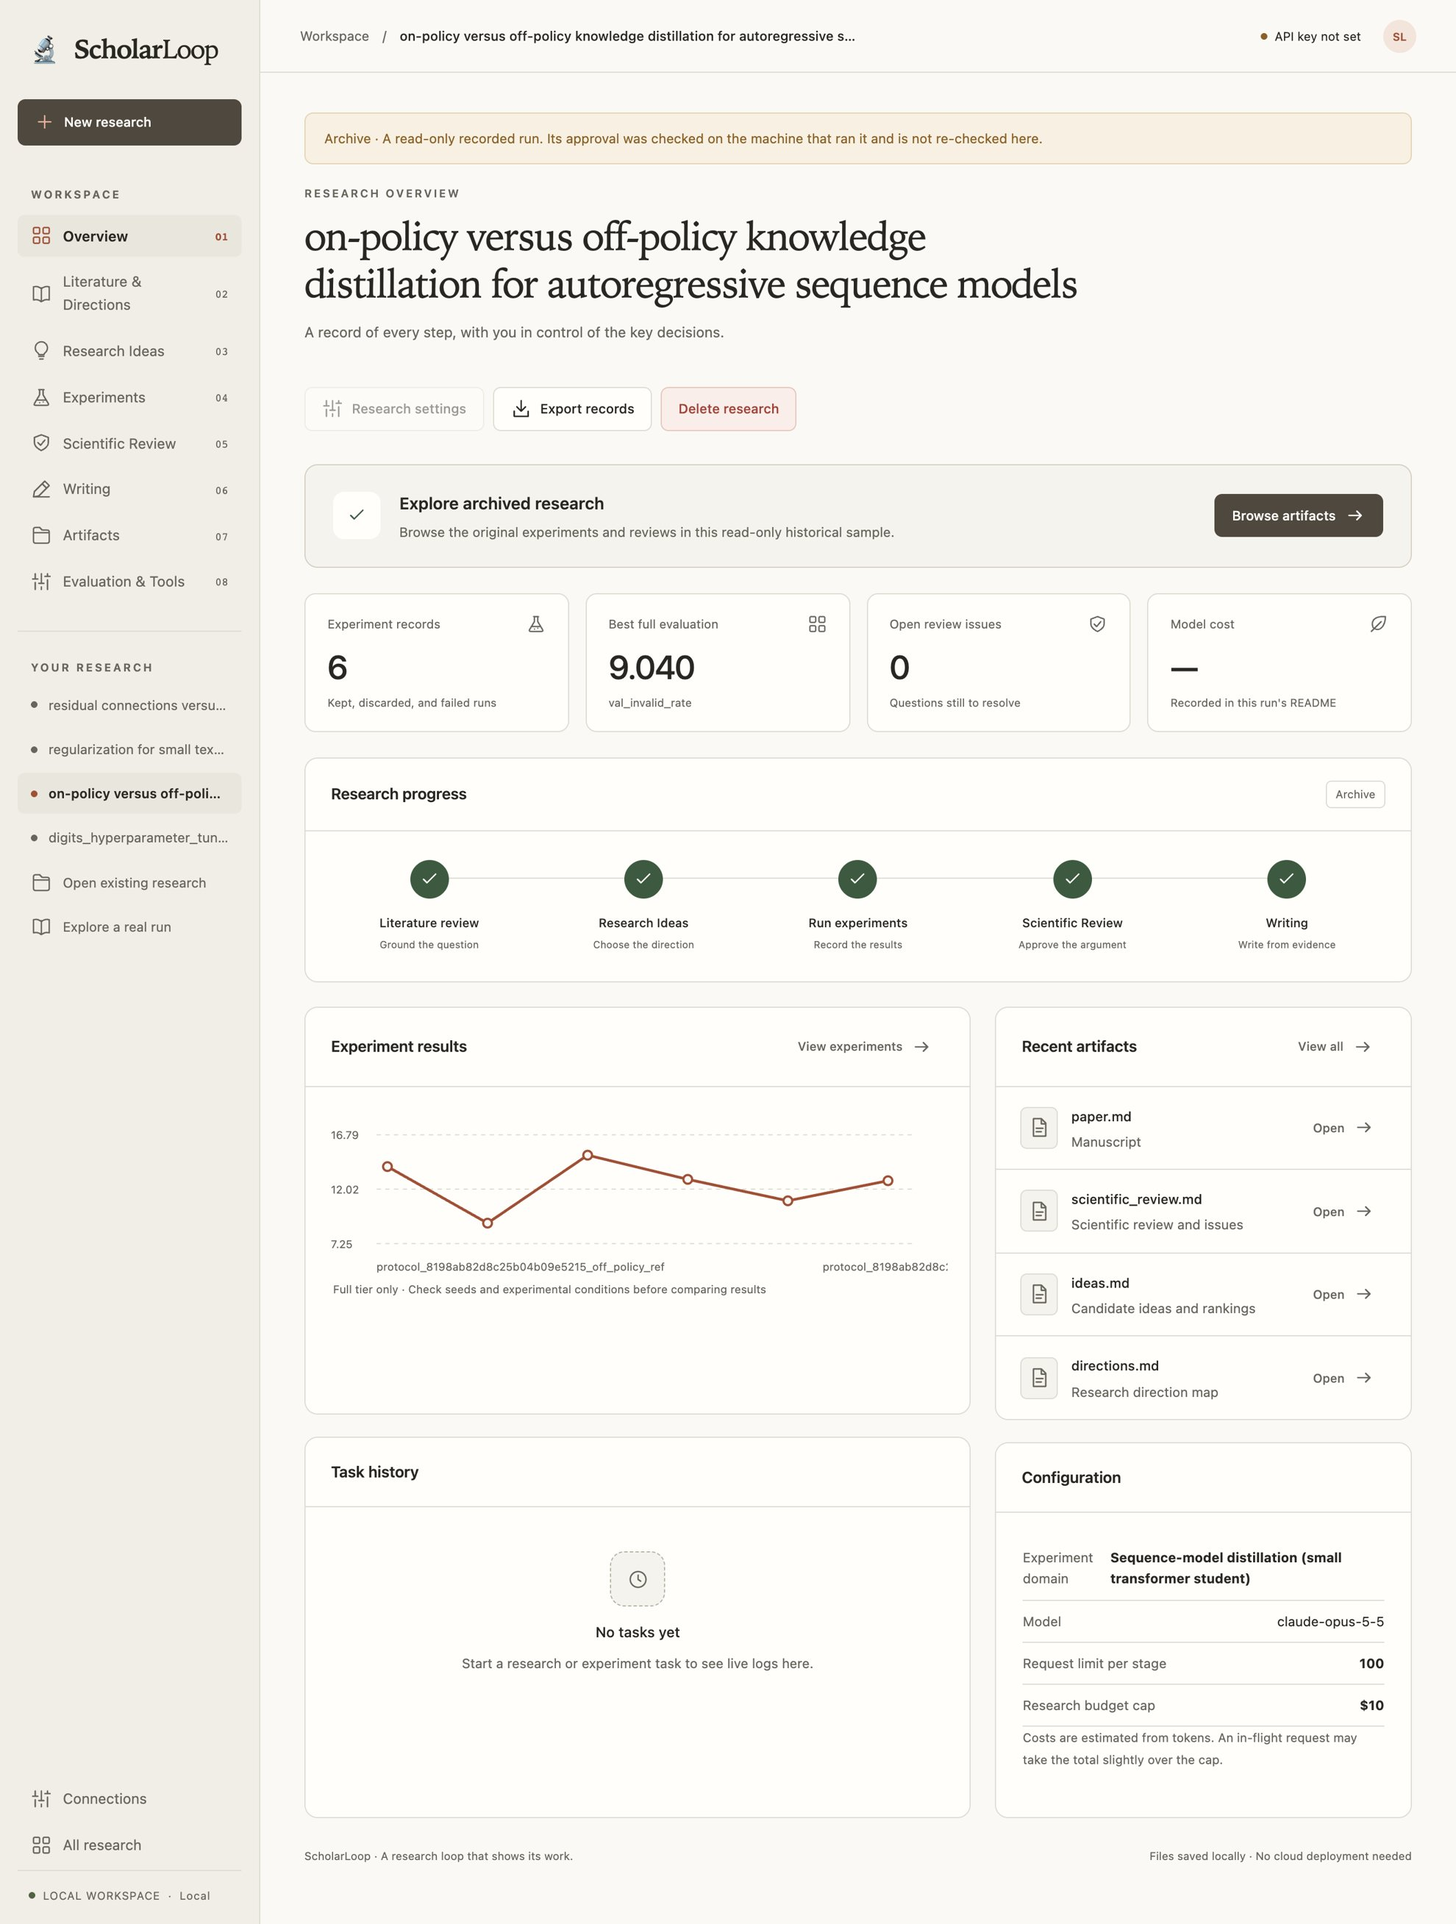
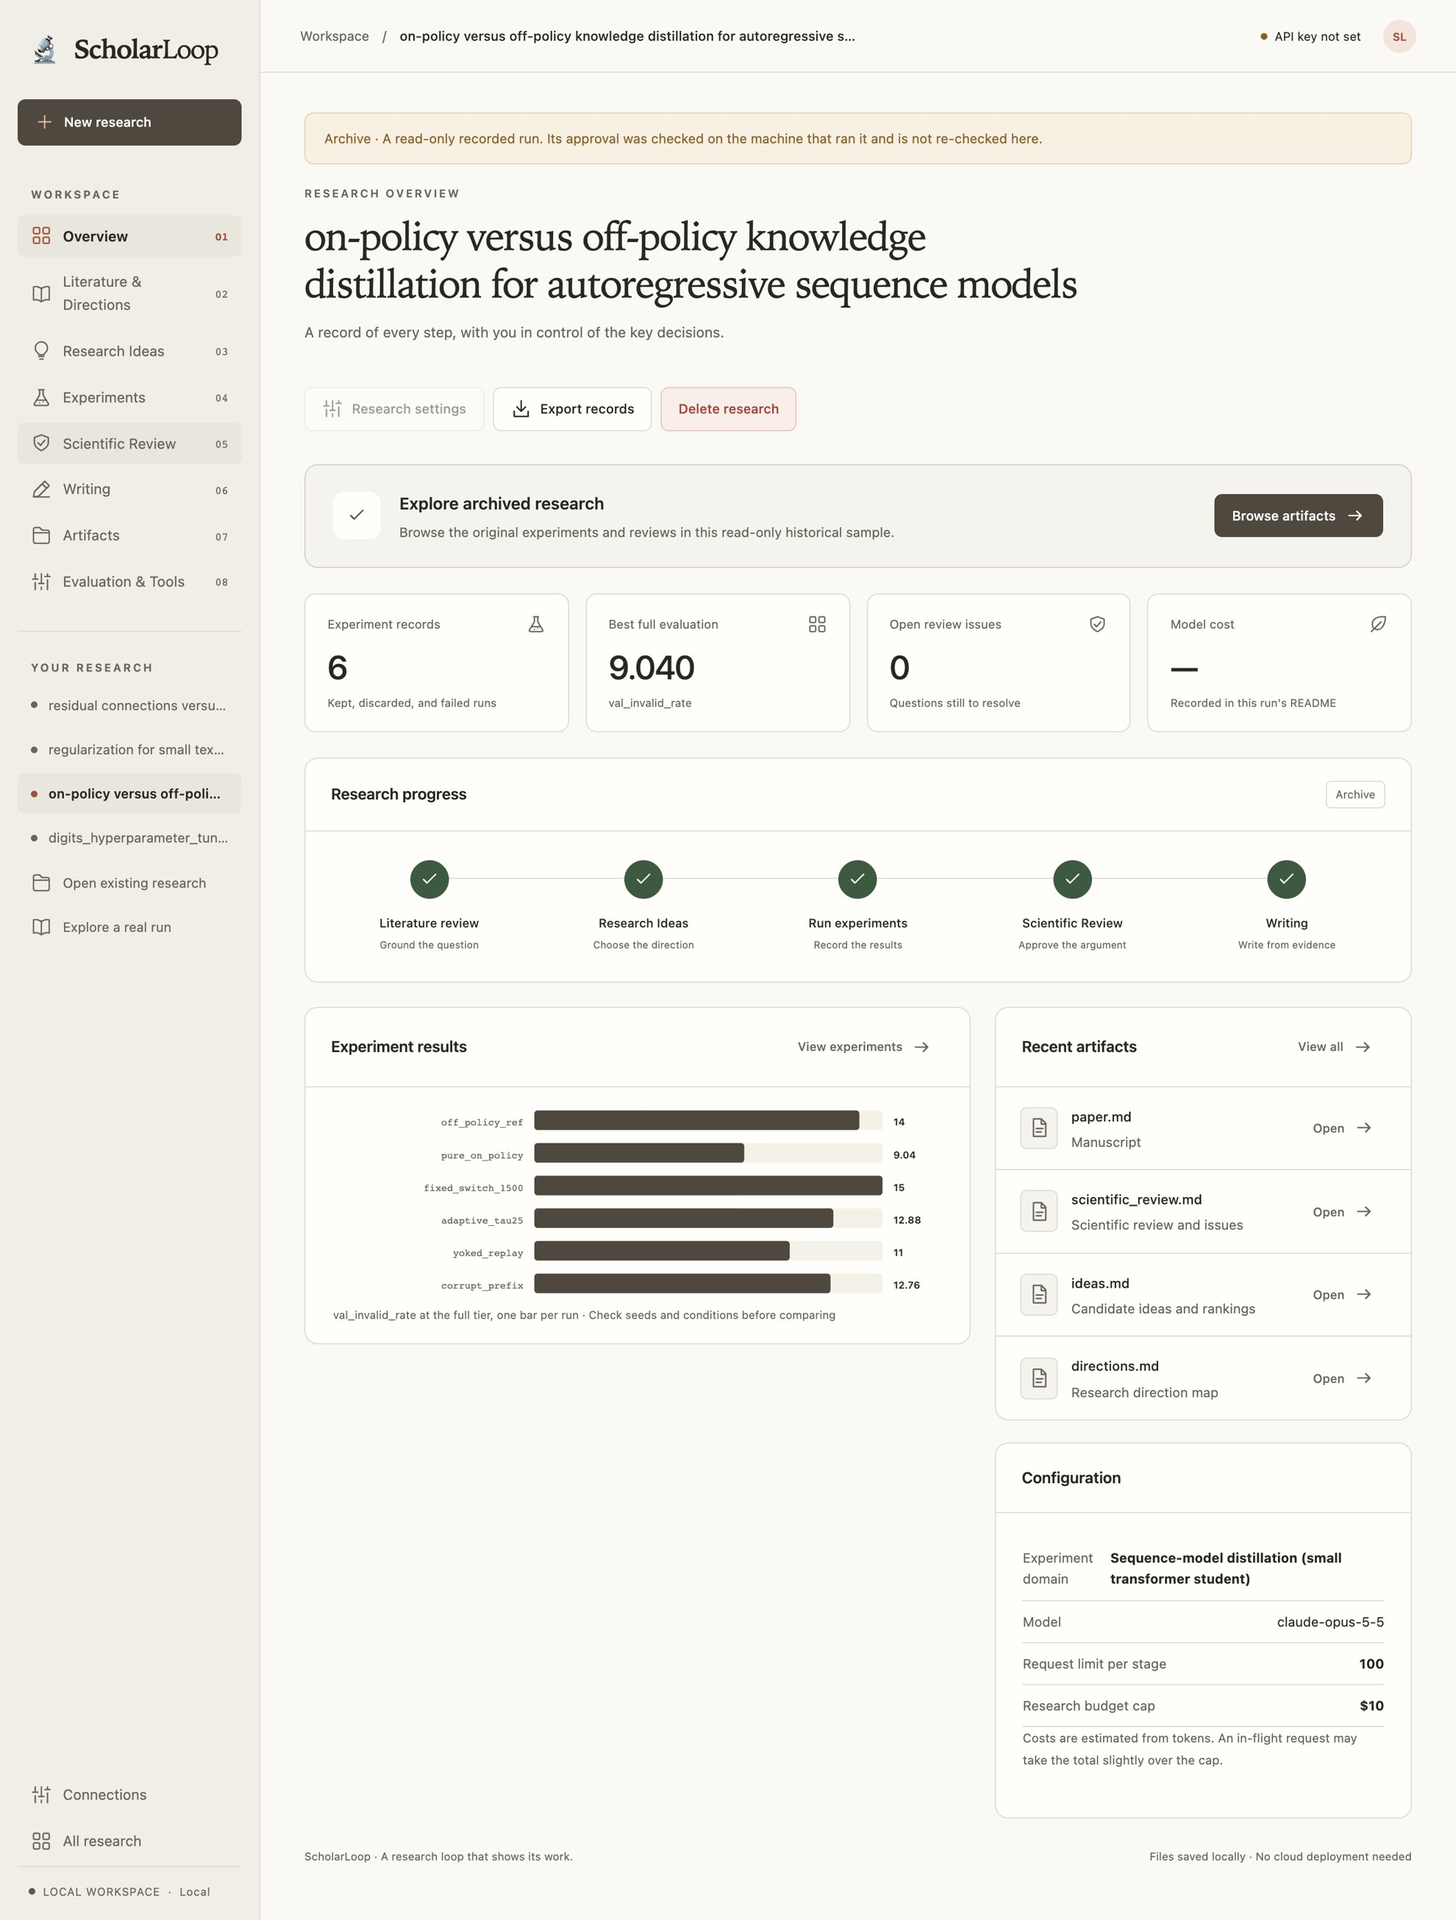
Give directions the idea-card layout, show results as one bar per run, drop empty task history from archives; add a web UI section with new screenshots to the README

diff --git a/scholarloop/ui/static/app.js b/scholarloop/ui/static/app.js
@@ -87,6 +87,15 @@ function sourceChip(id) {
   const url=sourceLink(id);
   return url?`<a class="source-chip" href="${esc(url)}" target="_blank" rel="noopener noreferrer" title="Open ${esc(id)} in a new tab">${esc(id)} ${icon("arrow")}</a>`:`<span>${esc(id)}</span>`;
 }
+// One direction, in the same shape as an idea: its open question is the point of the card.
+function directionCard(d, i) {
+  const chosen=state.detail.session.chosen_directions?.includes(d.id), n=String(i+1).padStart(2,"0");
+  const stance={develops:"Develops your hypothesis",challenges:"Challenges your hypothesis",outside:"A new perspective",author:"Your own direction"}[d.stance]||d.stance||d.origin||"";
+  return `<article class="panel idea-card${chosen?" chosen":""}"><header class="idea-head"><div class="idea-rank">${n}</div><div class="grow"><div class="idea-kicker">${esc([`Direction ${n}`,stance].filter(Boolean).join(" · "))}</div><h3>${esc(d.name)}</h3></div><div class="idea-tags">${chosen?tag("Chosen","green"):""}</div></header>`+
+    `<section class="idea-hypothesis"><div class="idea-label">Open question</div><p>${esc(d.open_question??"")}</p></section>`+
+    `<details class="idea-fold" open><summary>Thesis</summary>${points(d.thesis)}</details>`+(d.first_experiment?`<details class="idea-fold"><summary>First experiment</summary>${points(d.first_experiment)}</details>`:"")+
+    `<footer class="idea-foot"><div class="idea-sources"></div>${button("ideas","Generate ideas in this direction","",{directions:String(i+1)})}</footer></article>`;
+}
 // One idea: the hypothesis leads, scores and tournament standing sit beside the title, and the
 // longer parts fold away. The chosen idea is marked and starts unfolded.
 function ideaCard(idea, i) {
@@ -179,13 +188,16 @@ function stats() {
     ["Model cost",d.config.readonly?"—":`$${Number(d.spend.usd||0).toFixed(2)}`,d.config.readonly?"Recorded in this run's README":d.config.mode==="demo"?"No API calls · offline demo":`UI estimate · cap $${d.config.spend_cap}`,"leaf"]];
   return `<div class="stats">${values.map(([label,value,note,ico])=>`<div class="stat"><div class="stat-label">${label}${icon(ico)}</div><div class="stat-value">${esc(value)}</div><div class="stat-note">${esc(note)}</div></div>`).join("")}</div>`;
 }
+// An arm's own name, without the protocol prefix every arm of a study shares.
+const shortId=id=>String(id??"").replace(/^protocol_[0-9a-f]{8,}_/,"");
+// One bar per fully evaluated run, from zero: the runs are separate arms, not a series over time.
 function chart() {
   const entries=state.detail.entries.filter(e=>e.score!==null&&e.score!==undefined&&e.fidelity?.includes("full"));
   if(!entries.length)return empty("Awaiting full evaluation results","After the full stage completes, compare results at the same evaluation tier here.","","","flask");
-  const vals=entries.map(e=>Number(e.score)), min=Math.min(...vals), max=Math.max(...vals), pad=Math.max((max-min)*.3,.05);
-  const y=v=>125-((v-min+pad)/(max-min+2*pad))*100;
-  const x=i=>55+(entries.length===1?210:i/(entries.length-1)*460);
-  return `<div class="chart"><svg viewBox="0 0 570 155" role="img" aria-label="Full evaluation result trend">${[max+pad,(max+min)/2,min-pad].map(v=>`<line class="chart-grid" x1="45" x2="540" y1="${y(v)}" y2="${y(v)}"/><text class="chart-label" x="3" y="${y(v)+4}">${v.toFixed(2)}</text>`).join("")}<path class="chart-line" d="${vals.map((v,i)=>(i?"L":"M")+x(i)+","+y(v)).join(" ")}"/>${vals.map((v,i)=>`<circle class="chart-dot" cx="${x(i)}" cy="${y(v)}" r="4"><title>${esc(entries[i].id)}: ${v}</title></circle>`).join("")}<text class="chart-label" x="45" y="150">${esc(entries[0].id)}</text><text class="chart-label" x="455" y="150">${esc(entries.at(-1).id)}</text></svg></div><p class="chart-caption">Full tier only · Check seeds and experimental conditions before comparing results</p>`;
+  const vals=entries.map(e=>Number(e.score)), top=Math.max(...vals,0)||1, row=30, left=190, span=320;
+  const clip=text=>text.length>28?text.slice(0,27)+"…":text;
+  return `<div class="chart"><svg viewBox="0 0 570 ${entries.length*row+6}" role="img" aria-label="Full evaluation result of each run">${entries.map((e,i)=>{const w=Math.max(2,Math.max(0,vals[i])/top*span), y=i*row+6;
+    return `<g><title>${esc(e.id)}: ${vals[i]}</title><text class="chart-label chart-name" x="${left-10}" y="${y+14}" text-anchor="end">${esc(clip(shortId(e.id)))}</text><rect class="chart-track" x="${left}" y="${y}" width="${span}" height="18" rx="3"/><rect class="chart-bar" x="${left}" y="${y}" width="${w.toFixed(1)}" height="18" rx="3"/><text class="chart-label chart-value" x="${left+span+10}" y="${y+14}">${esc(vals[i])}</text></g>`;}).join("")}</svg></div><p class="chart-caption">${esc(profile()?.metric||"Score")} at the full tier, one bar per run · Check seeds and conditions before comparing</p>`;
 }
 function recentArtifacts() {
   const preferred=["paper.md","scientific_review.md","ideas.md","directions.md","lit_review.md","demo.md","experiments.jsonl"];
@@ -194,6 +206,8 @@ function recentArtifacts() {
 }
 function jobPanel() {
   const jobs=state.detail.jobs, selected=jobs.find(j=>j.id===state.job);
+  // A recorded run that never ran anything here has no task history to show.
+  if(state.detail.config.readonly&&!jobs.length)return "";
   const activity=state.detail.activity||[];
   const events=activity.length?`<details class="agent-activity"><summary>Recent model activity · ${activity.length} events</summary>${activity.map(a=>`<div class="list-row"><div class="grow"><strong>${esc(a.agent)}</strong><small>Attempt ${esc(a.attempt)} · ${timeText(a.timestamp)}</small></div>${tag(a.event==="started"?"Started":({accepted:"Validated",rejected:"Validation failed",invalid_json:"Invalid output format",exception:"Request error"}[a.status]||a.status),a.status==="accepted"?"green":a.event==="started"?"blue":"amber")}</div>`).join("")}</details>`:"";
   return panel("Task history",(jobs.length?`<div>${jobs.slice(0,6).map(j=>`<button class="list-row task-row ${j.id===state.job?"selected":""}" data-job="${j.id}">${icon(j.status==="running"?"clock":"file")}<div class="grow"><strong>${esc(j.label)}</strong><small>${timeText(j.started)}</small></div>${tag(statusLabels[j.status],statusColors[j.status])}</button>`).join("")}</div>${selected?`<div class="task-summary row space-between"><span>${esc(selected.label)} · ${statusLabels[selected.status]}</span>${selected.status==="running"?`<button class="btn small danger" data-cancel="${selected.id}">${icon("stop")} Stop task</button>`:""}</div><pre class="log" id="job-log">${esc(state.log)||"Waiting for task output…"}</pre>`:""}`:empty("No tasks yet","Start a research or experiment task to see live logs here.","","","clock"))+events);
@@ -209,7 +223,7 @@ function research() {
     (s.steer?.interest?panel("Your research intent",`<div class="panel-body"><p>${esc(s.steer.interest)}</p>${s.steer.hunches?.length?`<div class="tags">${s.steer.hunches.map(h=>tag(h)).join("")}</div>`:""}</div>`)+`<div class="spacer"></div>`:"")+
     panel("Literature review",fileExists("lit_review.md")?`<div class="list-row"><div class="file-icon">${icon("book")}</div><div class="grow"><strong>Literature review and research gaps</strong><small>Themes, paper notes, open questions, and sources</small></div>${artifactButton("lit_review.md","Read review")}</div>`:empty("Start with your question","Share your interests and hypotheses to focus the literature search on questions that matter to you."))+
     `<div class="spacer"></div><div class="section-title"><h2>Research directions ${dirs.length?tag(dirs.length+" directions"):""}</h2>${dirs.length?button("ideas","Choose directions and generate ideas","soft"):""}</div>`+
-    (dirs.length?`<div class="cards">${dirs.map((d,i)=>`<article class="panel direction-card"><div class="row space-between"><span class="card-number">DIRECTION 0${i+1}</span>${tag({develops:"Develops hypothesis",challenges:"Challenges hypothesis",outside:"New perspective",author:"Your direction"}[d.stance]||d.stance||d.origin,s.chosen_directions?.includes(d.id)?"green":"")}</div><h3>${esc(d.name)}</h3><p>${esc(d.thesis)}</p><p><strong>Open question</strong><br>${esc(d.open_question)}</p><div class="card-meta">First experiment: ${esc(d.first_experiment)}</div>${button("ideas","Generate ideas in this direction","",{directions:String(i+1)})}</article>`).join("")}</div>`:panel("Direction map",(state.detail.config.readonly?recorded("directions.md","The direction map is kept as a document","Read directions"):empty("Turn the literature into directions","The direction map identifies testable questions, low-cost first experiments, and likely failure modes."))))+
+    (dirs.length?`<div class="cards idea-list">${dirs.map(directionCard).join("")}</div>`:panel("Direction map",(state.detail.config.readonly?recorded("directions.md","The direction map is kept as a document","Read directions"):empty("Turn the literature into directions","The direction map identifies testable questions, low-cost first experiments, and likely failure modes."))))+
     `<div class="spacer"></div>${jobPanel()}`;
 }
 function ideas() {
@@ -223,8 +237,8 @@ function experiments() {
   const d=state.detail;
   return heading("Put ideas to the test","From small-scale screening to full evaluation, every run is recorded.","03 / EXPERIMENTS")+
     `<div class="action-row">${button(d.config.mode==="demo"?"demo":"campaign",busy()?"Experiments running":d.config.mode==="demo"?"Run offline demo":"Start / resume experiments","primary")}${button("iterate","Assess next research steps")}${button("review","Submit for scientific review")}</div>`+
-    stats()+panel("Full evaluation trend",chart())+`<div class="spacer"></div>`+
-    panel("Experiment records",d.entries.length?`<div class="table-wrap"><table><thead><tr><th>Experiment ID</th><th>Stage</th><th>Role / purpose</th><th>${esc(profile()?.metric||"Metric")}</th><th>Result</th><th>Hypothesis</th></tr></thead><tbody>${d.entries.slice().reverse().map(e=>`<tr><td class="mono">${esc(e.id)}</td><td>${tag(e.fidelity?.join(" / ")||"—","outline")}</td><td>${esc(e.role||e.purpose||"exploration")}</td><td class="score">${e.score===null||e.score===undefined?"—":esc(e.score)}</td><td>${tag({kept:"Kept",discarded:"Discarded",killed:"Failed",pending:"Pending"}[e.verdict]||e.verdict,e.verdict==="kept"?"green":e.verdict==="killed"?"red":"")}</td><td class="long" title="${esc(e.hypothesis?.claim)}">${esc(e.hypothesis?.claim)}</td></tr>`).join("")}</tbody></table></div>`:empty("No experiments yet","Select a research idea, then set the rounds, parallel workers, and cumulative training budget."),fileExists("experiments.jsonl")?artifactButton("experiments.jsonl","Raw records"):"")+
+    stats()+panel("Full evaluation results",chart())+`<div class="spacer"></div>`+
+    panel("Experiment records",d.entries.length?`<div class="table-wrap"><table><thead><tr><th>Experiment ID</th><th>Stage</th><th>Role / purpose</th><th>${esc(profile()?.metric||"Metric")}</th><th>Result</th><th>Hypothesis</th></tr></thead><tbody>${d.entries.slice().reverse().map(e=>`<tr><td class="mono" title="${esc(e.id)}">${esc(shortId(e.id))}</td><td>${tag(e.fidelity?.join(" / ")||"—","outline")}</td><td>${esc(e.role||e.purpose||"exploration")}</td><td class="score">${e.score===null||e.score===undefined?"—":esc(e.score)}</td><td>${tag({kept:"Kept",discarded:"Discarded",killed:"Failed",pending:"Pending"}[e.verdict]||e.verdict,e.verdict==="kept"?"green":e.verdict==="killed"?"red":"")}</td><td class="long" title="${esc(e.hypothesis?.claim)}">${esc(e.hypothesis?.claim)}</td></tr>`).join("")}</tbody></table></div>`:empty("No experiments yet","Select a research idea, then set the rounds, parallel workers, and cumulative training budget."),fileExists("experiments.jsonl")?artifactButton("experiments.jsonl","Raw records"):"")+
     `<div class="spacer"></div>${fileExists("research_iterations.json")?panel("Research iteration recommendations",`<div class="list-row"><div class="grow"><strong>Competing explanations, distinguishing experiments, and remaining uncertainty</strong><small>Recommendations need scientific review before becoming a frozen experiment protocol.</small></div>${artifactButton("research_iterations.json","View recommendations")}</div>`)+`<div class="spacer"></div>`:""}${jobPanel()}`;
 }
 function protocols(kind="agenda") {

diff --git a/scholarloop/ui/static/style.css b/scholarloop/ui/static/style.css
@@ -500,3 +500,15 @@ input::placeholder, textarea::placeholder { color: var(--muted); opacity: 1; }
 .tool-tile-foot { display: flex; align-items: center; justify-content: space-between; gap: 10px; margin: 0 -22px; padding: 12px 22px; background: var(--surface); border-top: 1px solid var(--line); }
 .tool-cost { font-size: 11px; color: var(--muted); }
 .tool-shelf.live .tool-cost { color: var(--warning); font-weight: 600; }
+
+/* Results as bars, one per run. */
+.chart-track { fill: #f4f1e8; }
+.chart-bar { fill: var(--action); }
+.chart-name { font-family: var(--font-mono); }
+.chart-value { fill: var(--ink); font-weight: 600; }
+.idea-hypothesis + .idea-fold { margin-top: 18px; }
+.chart svg { width: 100%; max-width: 760px; height: auto; display: block; margin: 0 auto; }
+.chart-label.chart-name, .chart-label.chart-value { font-size: 9px; }
+/* Columns keep their own height; a short panel is not stretched to match its neighbour. */
+.grid-two { align-items: start; }
+.grid-two > .stack > .panel { flex: none; }

diff --git a/README.md b/README.md
@@ -1,6 +1,6 @@
 <div align="center">
 
-# 🔬 Scholar Loop
+# 🔬 ScholarLoop
 
 **A research loop that shows its work.**
 
@@ -13,7 +13,7 @@ Code checks every citation, number and claim against the record before it reache
 [![license](https://img.shields.io/badge/license-MIT-green)](LICENSE)
 [![status](https://img.shields.io/badge/status-research%20preview-orange)](#-limits)
 
-[Quick start](#-quick-start) · [What it does](#-what-it-does) · [How it works](#-how-it-works) · [The rules](#%EF%B8%8F-rules-the-model-cannot-talk-its-way-around) · [Results](#-what-we-have-measured) · [Limits](#-limits)
+[Quick start](#-quick-start) · [The web UI](#%EF%B8%8F-the-web-ui) · [What it does](#-what-it-does) · [How it works](#-how-it-works) · [The rules](#%EF%B8%8F-rules-the-model-cannot-talk-its-way-around) · [Results](#-what-we-have-measured) · [Limits](#-limits)
 
 <br>
 
@@ -90,10 +90,10 @@ code version. Change the evidence and your approval is void.
 </td>
 <td valign="top">
 
-**🖥 Web UI, hard budgets**
+**🖥 A web UI, under a hard budget**
 
-Drive everything from a local web UI or the command line, under a dollar cap that is checked
-before every request.
+Run every stage from a local web UI or the command line. A dollar cap is checked before each
+model request, and the UI tells you which tools are free to run.
 
 </td>
 </tr>
@@ -111,8 +111,6 @@ Your browser opens on `http://127.0.0.1:8765`. Click **Explore a real run** to w
 [recorded runs](examples/sample_runs/), from the author's steer to the reviewed paper and the
 evidence behind each sentence. No API key, no GPU.
 
-![The ScholarLoop web UI showing the overview of a recorded run](assets/ui-workspace.jpg)
-
 | I want to… | Run | Costs |
 |---|---|---|
 | browse finished research | `python3 -m scholarloop.ui`, then **Explore a real run** | free |
@@ -122,6 +120,32 @@ evidence behind each sentence. No API key, no GPU.
 
 Every script is listed in [`examples/README.md`](examples/README.md). `pytest -q` runs the
 offline tests.
+
+## 🖥 The web UI
+
+The UI runs on your machine only. It starts the same stage commands as the command line, keeps
+their logs, and takes each of your decisions as an explicit action. A recorded run opens
+read-only, so you can look at everything without spending anything.
+
+![The overview of a recorded run in the ScholarLoop web UI: progress through the five stages, the result of each experiment arm, recent artifacts and the run's configuration](assets/ui-workspace.jpg)
+
+<table>
+<tr>
+<td width="33%" valign="top"><img src="assets/ui-ideas.jpg" alt="The Research Ideas page: each idea leads with its hypothesis and predicted effect, beside its tournament rank and scores"><br><b>Ideas.</b> Each one leads with its hypothesis, next to its tournament standing, scores and linked sources.</td>
+<td width="33%" valign="top"><img src="assets/ui-review.jpg" alt="The Scientific Review page: the verdict, counts of reviewers passed and claims supported, and a card per reviewer"><br><b>Review.</b> The verdict and the counts behind it, then the four critics and every issue they raised.</td>
+<td width="33%" valign="top"><img src="assets/ui-writing.jpg" alt="The Writing page: the manuscript title, its length and panel score, and the four writing stages"><br><b>Writing.</b> The manuscript, its sentence-by-sentence trace and evidence map, and the four stages that built it.</td>
+</tr>
+</table>
+
+| Page | What you find there |
+|---|---|
+| Literature & Directions | your steer, the literature review, and the direction map with each direction's open question |
+| Research Ideas | the candidate ideas, their tournament, and the one you picked |
+| Experiments | every run with its stage, role and score, and one bar per fully evaluated arm |
+| Scientific Review | the verdict, each critic's summary, and the issues grouped by state and severity |
+| Writing | the manuscript and what each writing stage produced |
+| Artifacts | every file of the run, grouped by the stage that wrote it |
+| Evaluation & Tools | diagnostics and reliability checks, split into free ones and ones that call the model |
 
 ## 🧭 How it works
 
